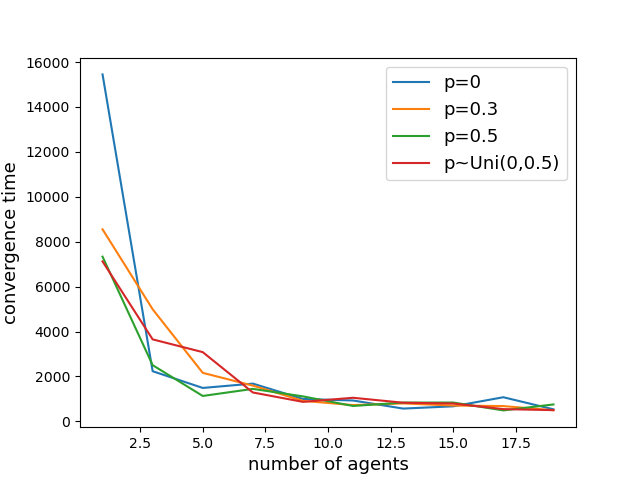
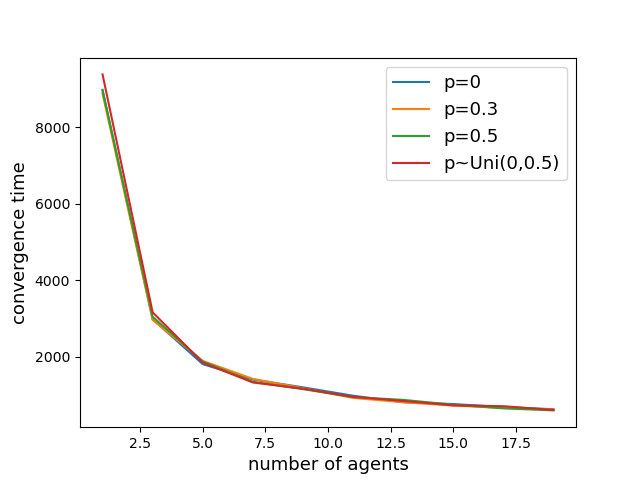
update fig

diff --git a/swarm_run.py b/swarm_run.py
@@ -3,7 +3,7 @@ import numpy as np
 import matplotlib.pyplot as plt
 
 # simulation times
-simulation_times = 1
+simulation_times = 100
 # font size
 size = 13
 
